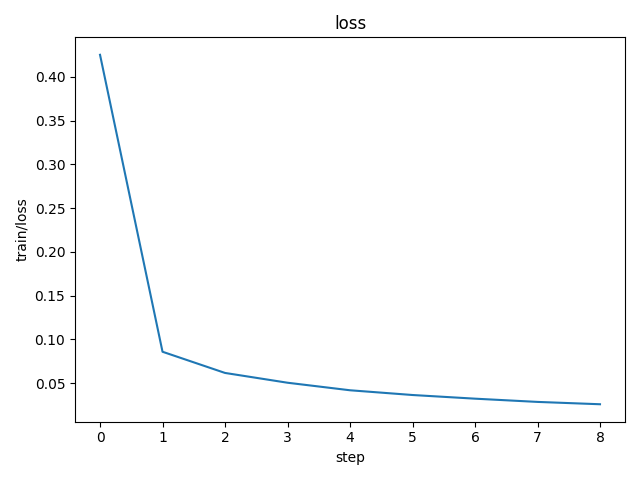
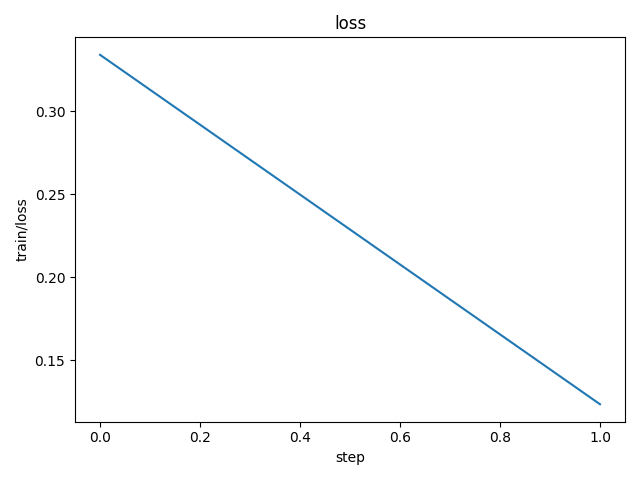
CML PR for b91d3b42 [skip ci]

diff --git a/results/evaluate/report.md b/results/evaluate/report.md
@@ -4,24 +4,24 @@ metrics.json
 
 |   dice_multi |
 |--------------|
-|     0.915843 |
+|     0.495555 |
 
-![REGION_1-24_1024_2048_0_1024.png](plots/images/REGION_1-24_1024_2048_0_1024.png)
+![REGION_1-24_1024_2048_2048_3072.png](plots/images/REGION_1-24_1024_2048_2048_3072.png)
 
-![REGION_1-24_1024_2048_2816_3840.png](plots/images/REGION_1-24_1024_2048_2816_3840.png)
+![REGION_2-4_1136_2160_2816_3840.png](plots/images/REGION_2-4_1136_2160_2816_3840.png)
 
-![REGION_1-24_1136_2160_1024_2048.png](plots/images/REGION_1-24_1136_2160_1024_2048.png)
+![REGION_3-8_0_1024_2816_3840.png](plots/images/REGION_3-8_0_1024_2816_3840.png)
 
-![REGION_1-24_1136_2160_2048_3072.png](plots/images/REGION_1-24_1136_2160_2048_3072.png)
+![REGION_4-12_1024_2048_0_1024.png](plots/images/REGION_4-12_1024_2048_0_1024.png)
 
-![REGION_2-19_0_1024_0_1024.png](plots/images/REGION_2-19_0_1024_0_1024.png)
+![REGION_4-12_1024_2048_2048_3072.png](plots/images/REGION_4-12_1024_2048_2048_3072.png)
 
-![REGION_2-19_1136_2160_0_1024.png](plots/images/REGION_2-19_1136_2160_0_1024.png)
+![REGION_4-22_1136_2160_2048_3072.png](plots/images/REGION_4-22_1136_2160_2048_3072.png)
 
-![REGION_2-4_1024_2048_2048_3072.png](plots/images/REGION_2-4_1024_2048_2048_3072.png)
+![REGION_6-13_0_1024_1024_2048.png](plots/images/REGION_6-13_0_1024_1024_2048.png)
 
-![REGION_3-25_1024_2048_1024_2048.png](plots/images/REGION_3-25_1024_2048_1024_2048.png)
+![REGION_6-20_1024_2048_1024_2048.png](plots/images/REGION_6-20_1024_2048_1024_2048.png)
 
-![REGION_3-8_0_1024_2048_3072.png](plots/images/REGION_3-8_0_1024_2048_3072.png)
+![REGION_7-3_1024_2048_0_1024.png](plots/images/REGION_7-3_1024_2048_0_1024.png)
 
-![REGION_4-12_0_1024_2816_3840.png](plots/images/REGION_4-12_0_1024_2816_3840.png)
+![REGION_8-24_1136_2160_1024_2048.png](plots/images/REGION_8-24_1136_2160_1024_2048.png)

diff --git a/results/train/report.md b/results/train/report.md
@@ -8,12 +8,12 @@ params.yaml
 
 metrics.json
 
-| train                         | eval                           |   dice_multi |   step |
-|-------------------------------|--------------------------------|--------------|--------|
-| {'loss': 0.02594890259206295} | {'loss': 0.023166080936789513} |     0.912273 |      8 |
+| train                         | eval                          |   dice_multi |   step |
+|-------------------------------|-------------------------------|--------------|--------|
+| {'loss': 0.12339556217193604} | {'loss': 0.07129068672657013} |     0.495651 |      1 |
 
 ![static/dice_multi](static/dice_multi.png)
 
-![static/eval/loss](static/eval/loss.png)
-
 ![static/train/loss](static/train/loss.png)
+
+![static/eval/loss](static/eval/loss.png)
